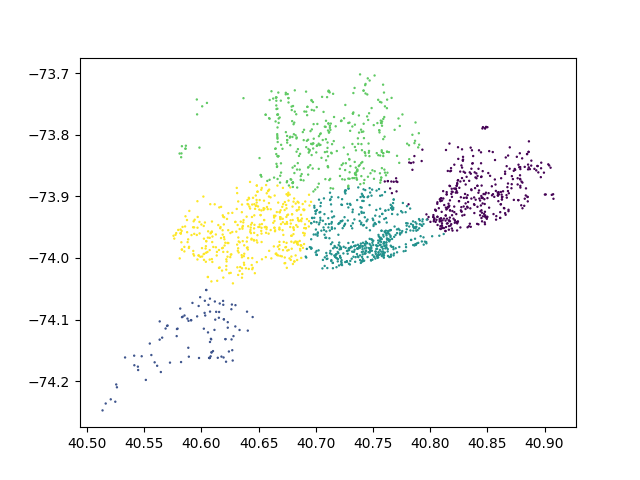
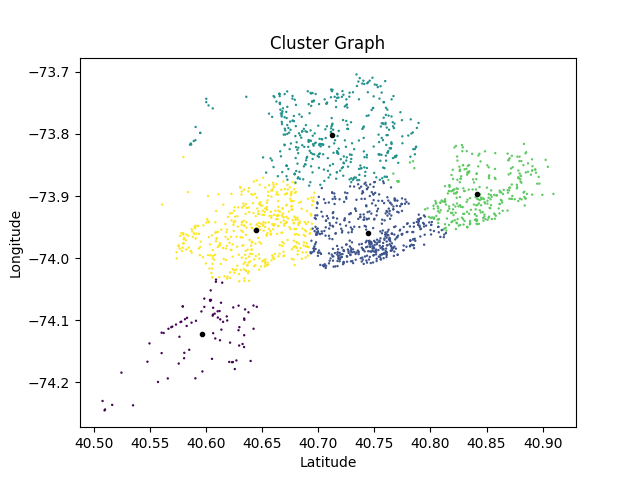
Made visual modifications to graph. Added sample output for viewing.

diff --git a/clusterplot.py b/clusterplot.py
@@ -1,7 +1,9 @@
 import matplotlib.pyplot as plt
-
 vector_cluster_ids = open("data/vector-cluster-ids")
 readlines = vector_cluster_ids.readlines()
+
+cluster_centroids = open("data/cluster-centroids")
+centroid_readlines = cluster_centroids.readlines()
 
 fig, ax = plt.subplots()
 
@@ -16,10 +18,26 @@ for line in readlines:
     y.append(splitline[1])
     cluster_ids.append(splitline[2])
 
+x_centroid = []
+y_centroid = []
+for line in centroid_readlines:
+    line = line.replace("[", "").replace("]", "")
+    splitline = line.split(",")
+    x_centroid.append(splitline[0])
+    y_centroid.append(splitline[1])
+
 x = [float(i) for i in x]
 y = [float(i) for i in y]
 cluster_ids = [int(i) for i in cluster_ids]
 
-ax.scatter(x, y, c=cluster_ids, cmap='viridis', s=0.5)
+x_centroid = [float(i) for i in x_centroid]
+y_centroid = [float(i) for i in y_centroid]
 
+ax.scatter(x, y, c=cluster_ids, cmap='viridis', s=0.5)
+for i in range(len(x_centroid)):
+    ax.plot(x_centroid[i], y_centroid[i],c='black', marker="o", markersize=3)
+
+plt.title("Cluster Graph")
+plt.xlabel("Latitude")
+plt.ylabel("Longitude")
 plt.savefig('./data/cluster_graph.png')
